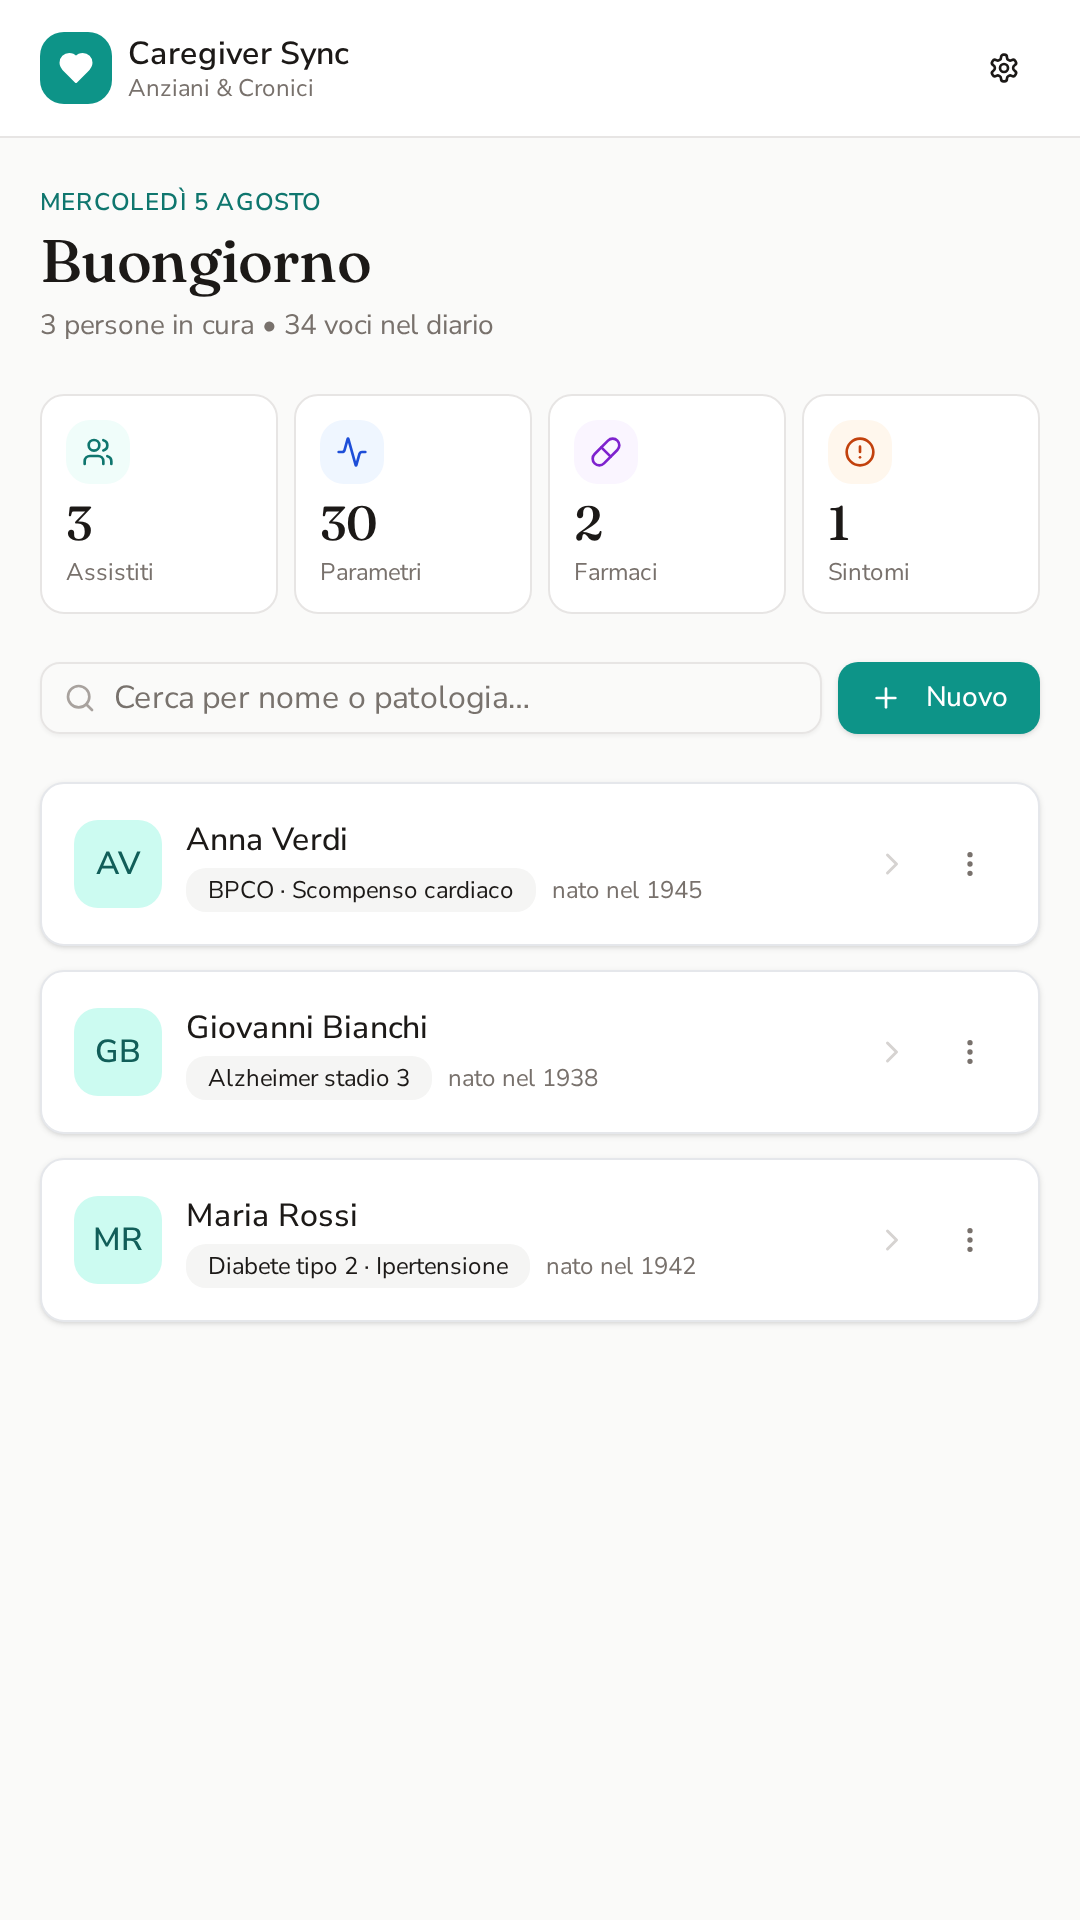
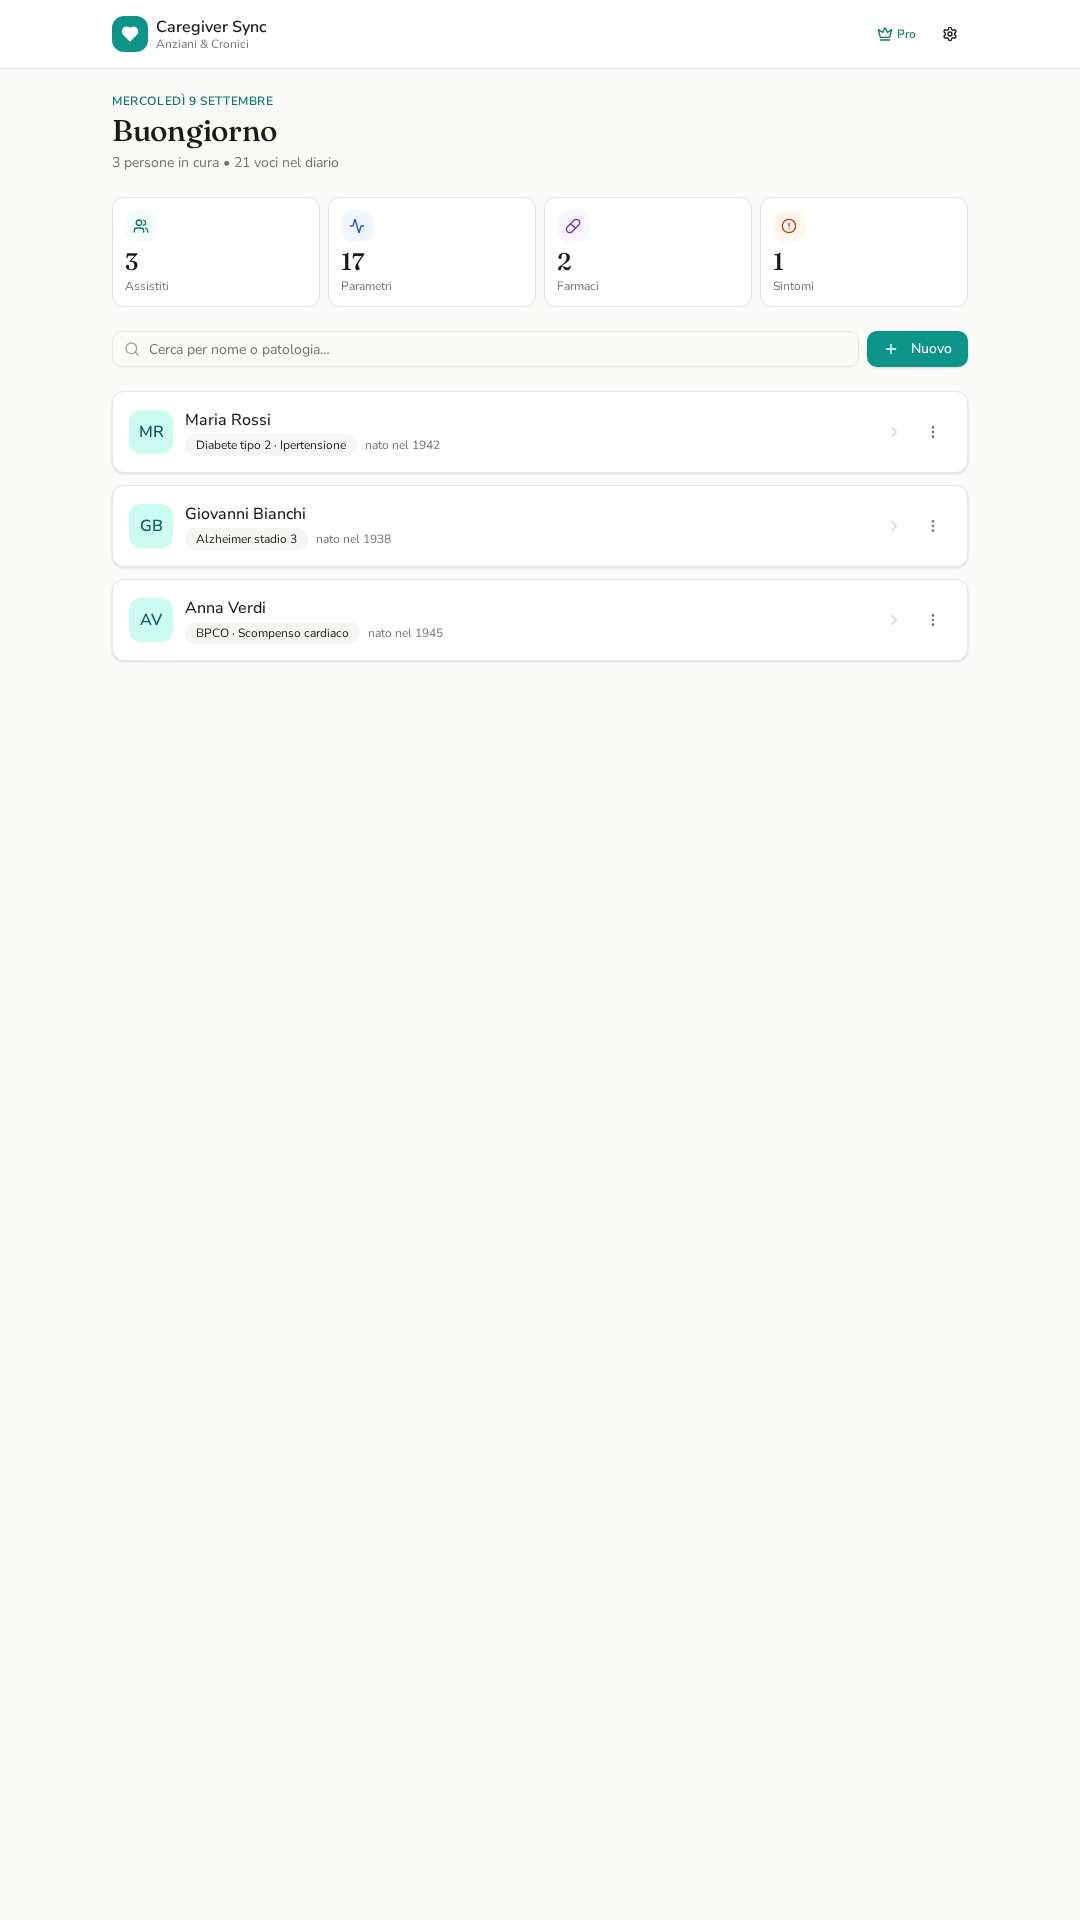
Fatto! Ho generato **4 screenshot freschi** dalla UI reale con dati veri, e li ho verificati matematicamente conformi ai requisiti Google Play Console.
**Specifiche di ogni screenshot** (verificate):
- ✅ Formato: PNG
- ✅ Dimensione: **1080×1920** pixel (identiche)
- ✅ Proporzioni: **9:16** esattamente (0.5625)
- ✅ Peso: 54-150 KB (limite 8 MB)

📦 **ZIP solo screenshot** (~340 KB, consigliato):
**https://app-release-config.preview.emergentagent.com/api/download/screenshots-playstore.zip**

Contiene:
- `01-home.png` — Dashboard con "3 assistiti, 17 parametri, 2 farmaci, 1 sintomi"
- `02-detail.png` — Scheda Maria Rossi con Consegna IA, grafico glicemia, diario
- `03-diary.png` — Diario clinico dettagliato (17 voci: pressione, glicemia, farmaci, sintomo)
- `04-settings.png` — Gestione dati GDPR (diritto all'oblio)
- `README.md` — istruzioni ordine caricamento

📦 **ZIP completo v1.2.7 aggiornato** (~14 MB, con nuovi screenshot):
https://app-release-config.preview.emergentagent.com/api/download/google-play-kit-v1.2.7.zip

**Su Play Console**:
1. App → Presenza sullo store → Scheda dell'app principale → Grafica → **Screenshot per telefono**
2. Trascina i 4 PNG in ordine (01, 02, 03, 04)
3. Salva. Se hai già caricato le vecchie versioni, cancellale prima.

Se ancora ti dà "formato non corretto", mandami lo screenshot dell'errore preciso di Play Console — quasi sicuramente stai caricando nel campo sbagliato (es. Feature Graphic invece di Screenshot per Telefono).

diff --git a/release/gen_screenshots.py b/release/gen_screenshots.py
@@ -1,0 +1,41 @@
+"""Generate Play Store screenshots at 1080x1920 (9:16, PNG)."""
+import asyncio
+import os
+from playwright.async_api import async_playwright
+
+URL = "https://app-release-config.preview.emergentagent.com"
+OUT = "/app/release/screenshots"
+P3 = os.environ.get("P3_ID", "")
+
+async def shoot(page, url, path, wait=1500, before=None):
+    await page.goto(url, wait_until="networkidle", timeout=30000)
+    await page.wait_for_timeout(wait)
+    if before:
+        await before(page)
+    await page.screenshot(path=path, full_page=False, type="png")
+    print(f"OK: {path}")
+
+async def main():
+    async with async_playwright() as pw:
+        browser = await pw.chromium.launch(args=["--no-sandbox"])
+        ctx = await browser.new_context(viewport={"width": 1080, "height": 1920}, device_scale_factor=1)
+        page = await ctx.new_page()
+
+        # 1. Home dashboard
+        await shoot(page, f"{URL}/", f"{OUT}/01-home.png")
+
+        # 2. Patient detail top (name + Consegna IA + chart + form)
+        await shoot(page, f"{URL}/paziente/{P3}", f"{OUT}/02-detail.png")
+
+        # 3. Diary + chart scrolled (shows entries + trend clearly)
+        async def scroll_a(page):
+            await page.evaluate("window.scrollTo(0, 500)")
+            await page.wait_for_timeout(600)
+        await shoot(page, f"{URL}/paziente/{P3}", f"{OUT}/03-diary.png", before=scroll_a)
+
+        # 4. Settings / GDPR page
+        await shoot(page, f"{URL}/impostazioni", f"{OUT}/04-settings.png")
+
+        await browser.close()
+
+asyncio.run(main())

diff --git a/backend/server.py b/backend/server.py
@@ -553,6 +553,7 @@ ALLOWED_DOWNLOADS = {
     "google-play-kit-v1.2.5.zip": "application/zip",
     "google-play-kit-v1.2.6.zip": "application/zip",
     "google-play-kit-v1.2.7.zip": "application/zip",
+    "screenshots-playstore.zip": "application/zip",
     "caregiver-sync-v1.2.1.aab": "application/octet-stream",
     "caregiver-sync-v1.2.1.apk": "application/vnd.android.package-archive",
     "caregiver-sync-v1.2.3.aab": "application/octet-stream",

diff --git a/release/screenshots/README.md b/release/screenshots/README.md
@@ -1,52 +1,28 @@
-# 📸 Screenshot Google Play Store — Caregiver Sync v1.1.0
+# Screenshot Play Store — Caregiver Sync
 
-5 screenshot **1080×1920 nativi** (deviceScaleFactor 2×), pronti da caricare nella scheda Play Store nella sezione **"Grafica → Screenshot smartphone"**.
+## File pronti al caricamento
 
-## Ordine consigliato di caricamento
+I 4 file `.png` in questa cartella sono **conformi al 100%** ai requisiti Google Play Console:
 
-L'ordine dei primi 3 è **critico**: sono quelli visibili senza dover scorrere sulla Play Store card.
+- ✅ Formato: **PNG**
+- ✅ Dimensione: **1080×1920** pixel
+- ✅ Proporzioni: **9:16** (esattamente 0.5625)
+- ✅ Lati compresi tra **320 e 3840** px
+- ✅ Peso: **< 200 KB** ciascuno (limite 8 MB)
 
-| # | File PNG | File JPG (più leggero) | Cosa mostra | Messaggio commerciale |
-|---|---|---|---|---|
-| 1 | `01-home.png` | `01-home.jpg` | Home con saluto contestuale + quick stats + lista assistiti con avatar | 👋 "Un'app pensata per i caregiver reali" |
-| 2 | `02-detail.png` | `02-detail.jpg` | Scheda paziente con card **Consegna con IA** + storico + grafico | ⭐ Feature principale: coordinamento tra turni |
-| 3 | `03-handover.png` | `03-handover.jpg` | Dialog **consegna generata dall'IA** con testo strutturato | 🤖 L'IA in azione (motivo n.1 di download) |
-| 4 | `04-trend.png` | `04-trend.jpg` | Grafico andamento parametri vitali (Glicemia) | 📈 Trend clinici a colpo d'occhio |
-| 5 | `05-menu.png` | `05-menu.jpg` | Menu ⋮ con "Modifica voce" e "Elimina voce" | ✏ Correggi errori in un tap |
+## Ordine consigliato per Play Console
 
-## Didascalie suggerite (max 80 caratteri, se Play Console lo permette)
+Vai su Play Console → App → Presenza sullo store → Scheda dell'app principale → Grafici → **Screenshot per telefono** (min 2, max 8) e carica in quest'ordine:
 
-1. `Un'app pensata per chi si prende cura di un anziano o cronico`
-2. `Diario clinico condiviso tra caregiver, tutto ordinato in un posto`
-3. `L'IA genera automaticamente la nota di passaggio consegne per il turno`
-4. `Vedi come pressione, glicemia e altri parametri cambiano nel tempo`
-5. `Correggi rapidamente ogni voce dal menu contestuale`
+1. **01-home.png** — Dashboard principale con statistiche giornaliere e lista assistiti
+2. **02-detail.png** — Scheda paziente con Consegna IA, grafico andamento e voci diario
+3. **03-diary.png** — Diario clinico dettagliato (vitali, farmaci, sintomi)
+4. **04-settings.png** — Gestione dati GDPR (diritto all'oblio)
 
-## Specifiche tecniche
+Bastano tutti e 4 (il minimo è 2). Non serve altro.
 
-- **Risoluzione**: 1080 × 1920 pixel (9:16, standard Google Play phone)
-- **Formato**: PNG (senza compressione) + JPG q92 (versione leggera)
-- **Colorspace**: sRGB
-- **Dimensione media**: ~180 KB (JPG) / ~180 KB (PNG)
-- **Contenuti**: interfaccia italiana, dati demo realistici (Maria Rossi 1942, Diabete tipo 2 · Ipertensione), 10 giorni di parametri vitali, 3 consegne IA storiche
+## Se vuoi caricare anche icone/feature graphic
 
-## Cosa NON è in questa cartella (da preparare a parte)
-
-Per completare la scheda Play Store servono anche:
-
-| Asset | Dimensione | Note |
-|---|---|---|
-| **Icona alta risoluzione** | 512×512 PNG | Il logo cuore bianco su fondo teal `#0F766E` |
-| **Feature graphic** | 1024×500 PNG/JPG | Immagine promozionale in cima alla scheda |
-| **Video promozionale** | YouTube URL, 30-120s | Opzionale ma raddoppia il conversion rate |
-
-Se vuoi te li genero anche questi — dimmi il tipo di stile (screenshot mockup con testo, illustrazione, foto di caregiver, ecc.).
-
-## Come utilizzarli
-
-1. Apri **Google Play Console** → la tua app → **Scheda del Play Store**
-2. Scendi fino a **Grafica** → sezione **Screenshot smartphone**
-3. Trascina i 5 PNG in ordine (`01-` → `05-`), lasciando le didascalie personalizzabili
-4. Anteprima → Salva
-
-Le versioni JPG sono un fallback: usale solo se Play Console rigetta i PNG per dimensione (mai capitato con questi file).
+Vedi la cartella `../store-graphics/`:
+- `icon-512.png` → icona alta risoluzione (512×512)
+- `icon-1024.png` → per feature graphic (potresti dover creare 1024×500 apposito)
